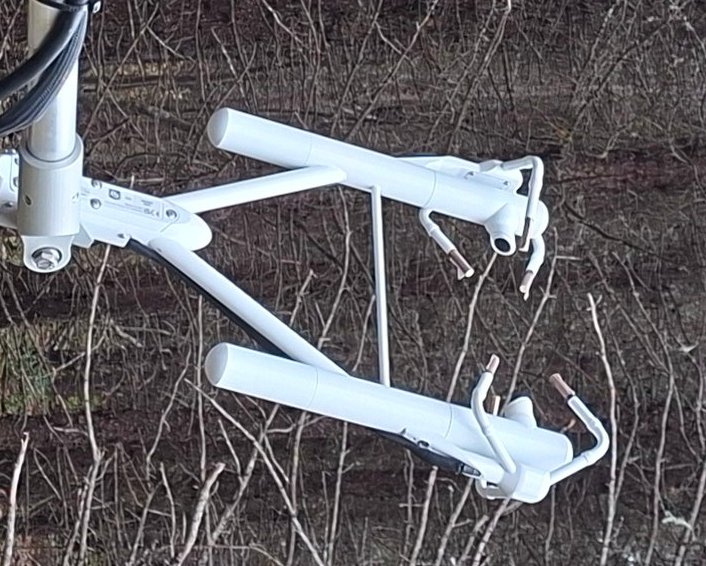
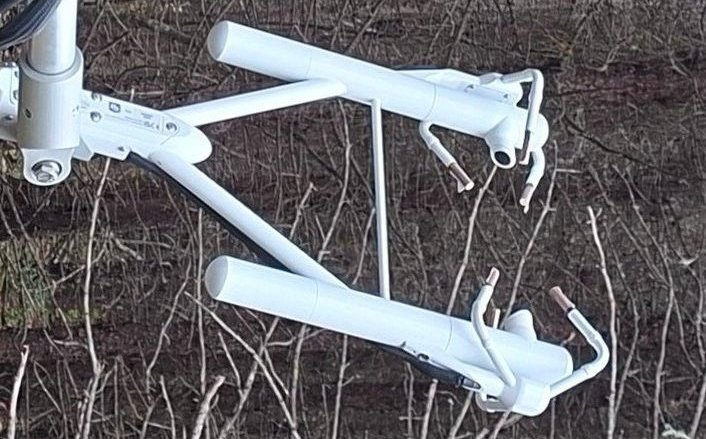
Ajustement de la taille des images des capteurs et de la tour

diff --git a/src/pagesMarkdown/flux.md b/src/pagesMarkdown/flux.md
@@ -70,7 +70,7 @@ Sections:
       mais inférieure à d'autres moments (par exemple, lors d'une nuit chaude).
 
   - type: imageLegende
-    image: /images/tour/20250613110406.jpg
+    image: /images/tour/tour_base.jpeg
     legende: Une tour téléscopique sert d'ancrage pour installer des instruments
       météorologiques et de mesure des flux écosystémiques en hauteur. Tout en
       haut de la tour trône l'IRGASON, l'instrument de mesure principal des flux
@@ -106,6 +106,7 @@ Sections:
       bien mesurer les flux écosystémiques, l'instrument est installé à une
       hauteur de 21 mètres, soit environ une fois et demie la hauteur des arbres
       les plus grands.
+
   - type: doubleImageLegende
     image1: /images/capteurs/irgason_1.jpg
     alt1: Vue rapprochée de l'IRGASON
@@ -119,6 +120,7 @@ Sections:
       prise alors que la tour téléscopique était en position horizontale pour
       pouvoir y installer les équipements. Lorsqu'il est en fonction, l'IRGASON
       est situé à 21 mètres au-dessus du sol.
+
   - type: sous-titre
     sous-titre: Caractérisation du profil de la colonne d'air
   - type: paragraphe
